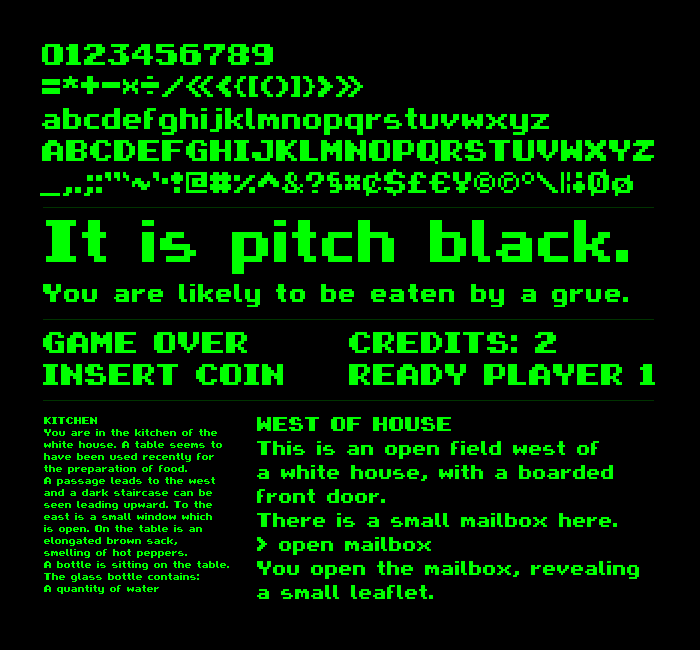
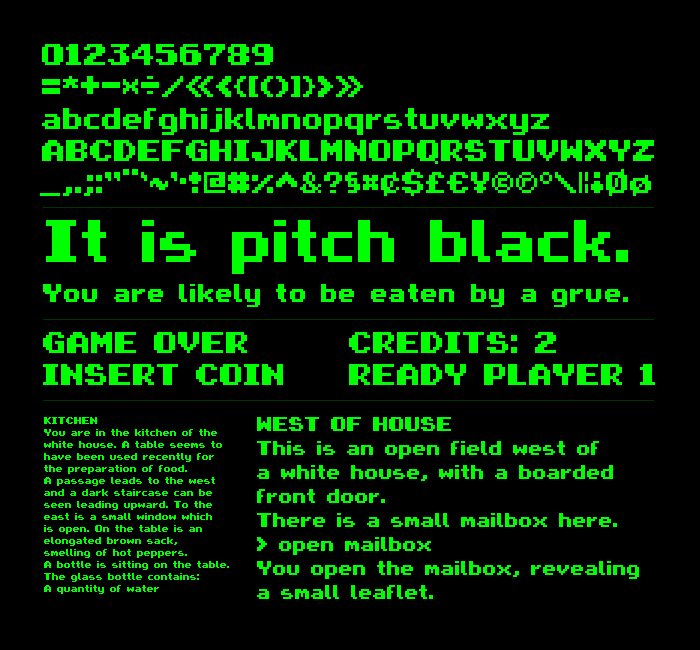
add missing glyph

Changed region(s): [[0.18, 0.2462, 0.93, 0.3077]]

diff --git a/menu/FONTLOG.md b/menu/FONTLOG.md
@@ -16,8 +16,7 @@ There are 113 glyphs included:
     =*+-×÷/«<{[()]}>»
     abcdefghijklmnopqrstuvwxyz
     ABCDEFGHIJKLMNOPQRSTUVWXYZ
-    !@#%^&?§¤¢$£€¥©®
-    _,.;:"`~¨'·°\|¦¡Øø
+    _,.;:"¨`~'·!@#%^&?§¤¢$£€¥©®°\|¦¡Øø
 
 | Range         | Qty/Total | Description |
 | ------------- | --------- | ----------- |
